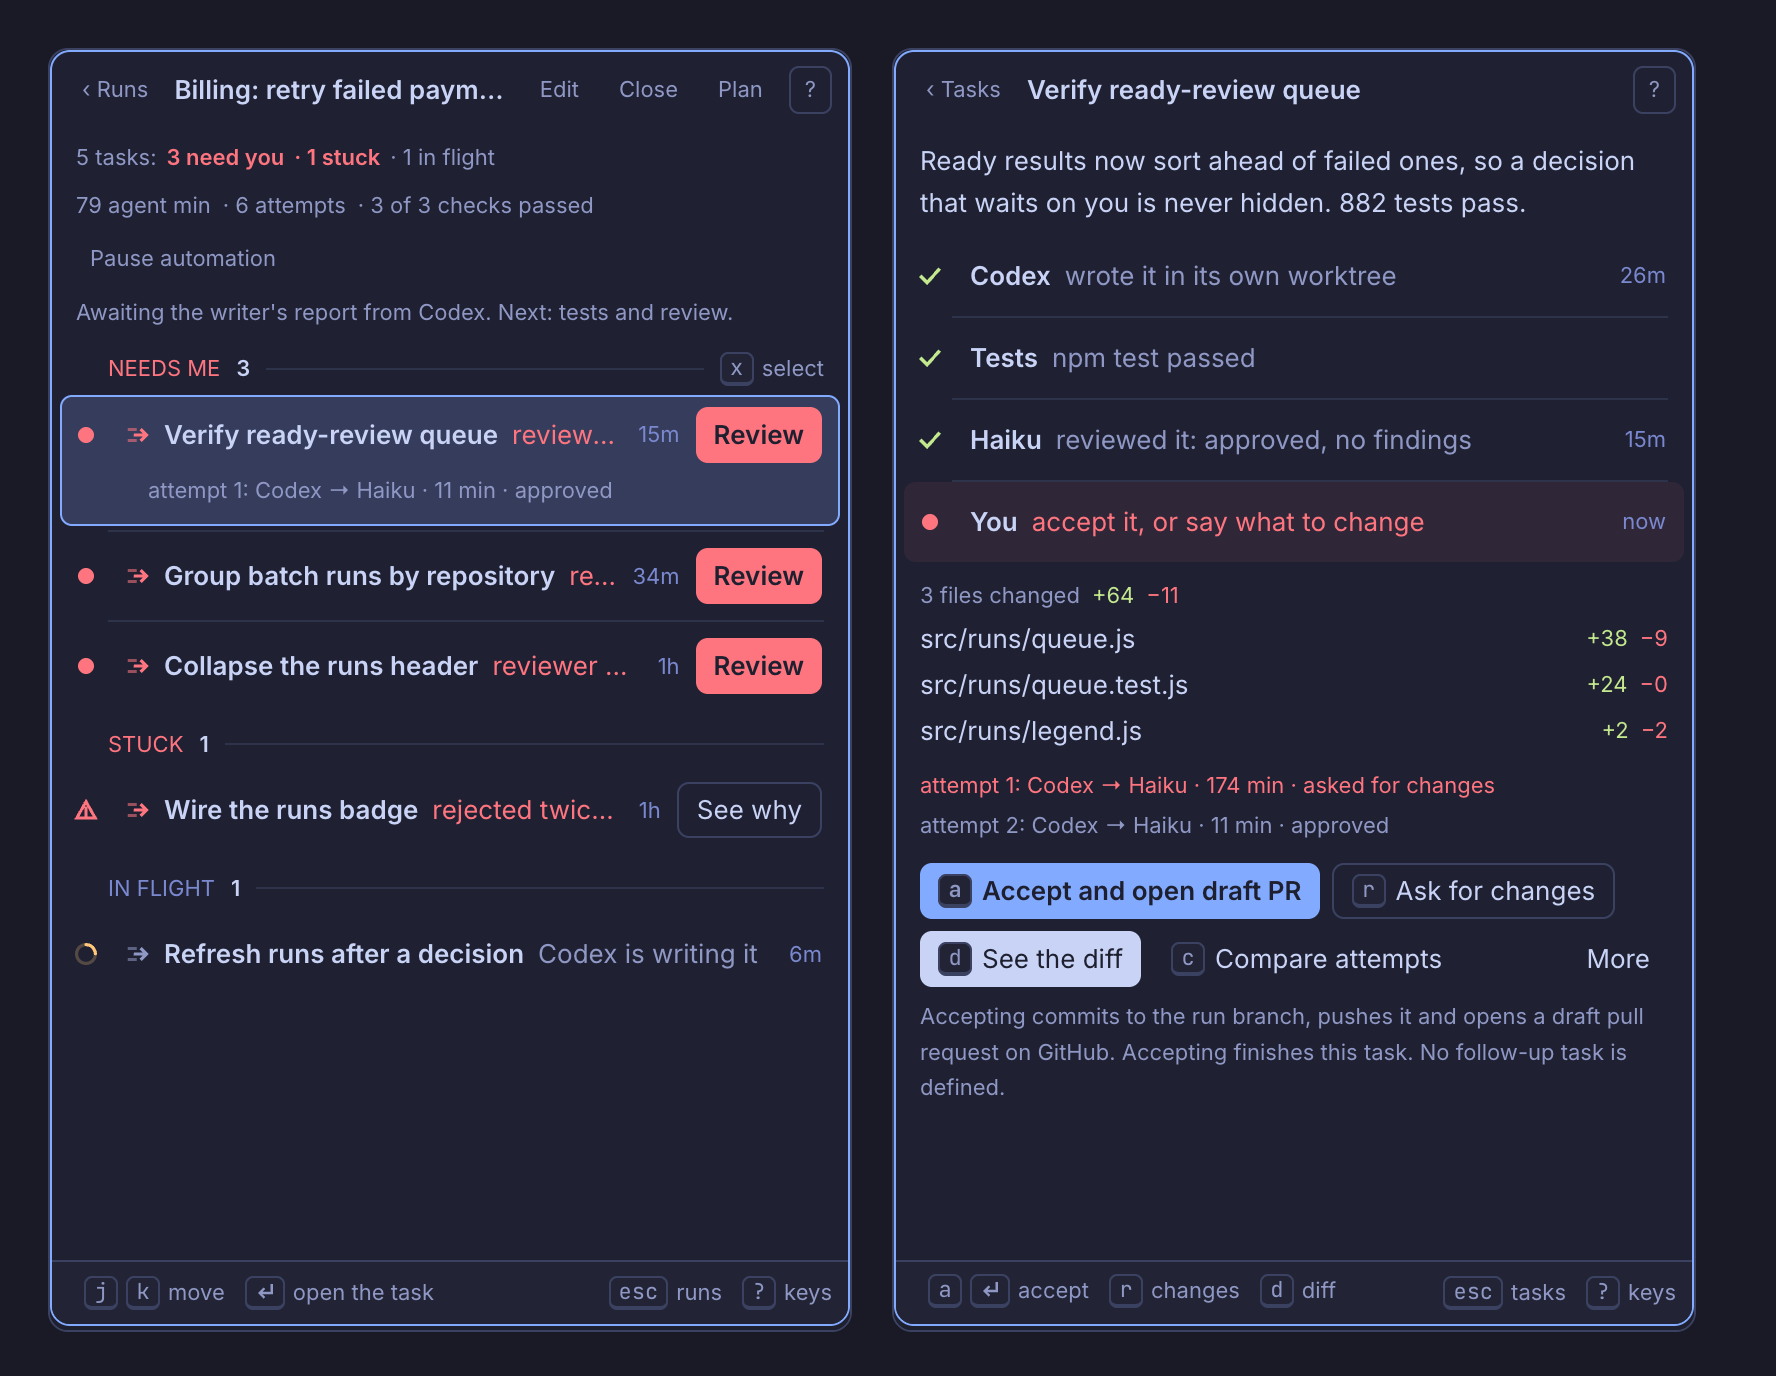
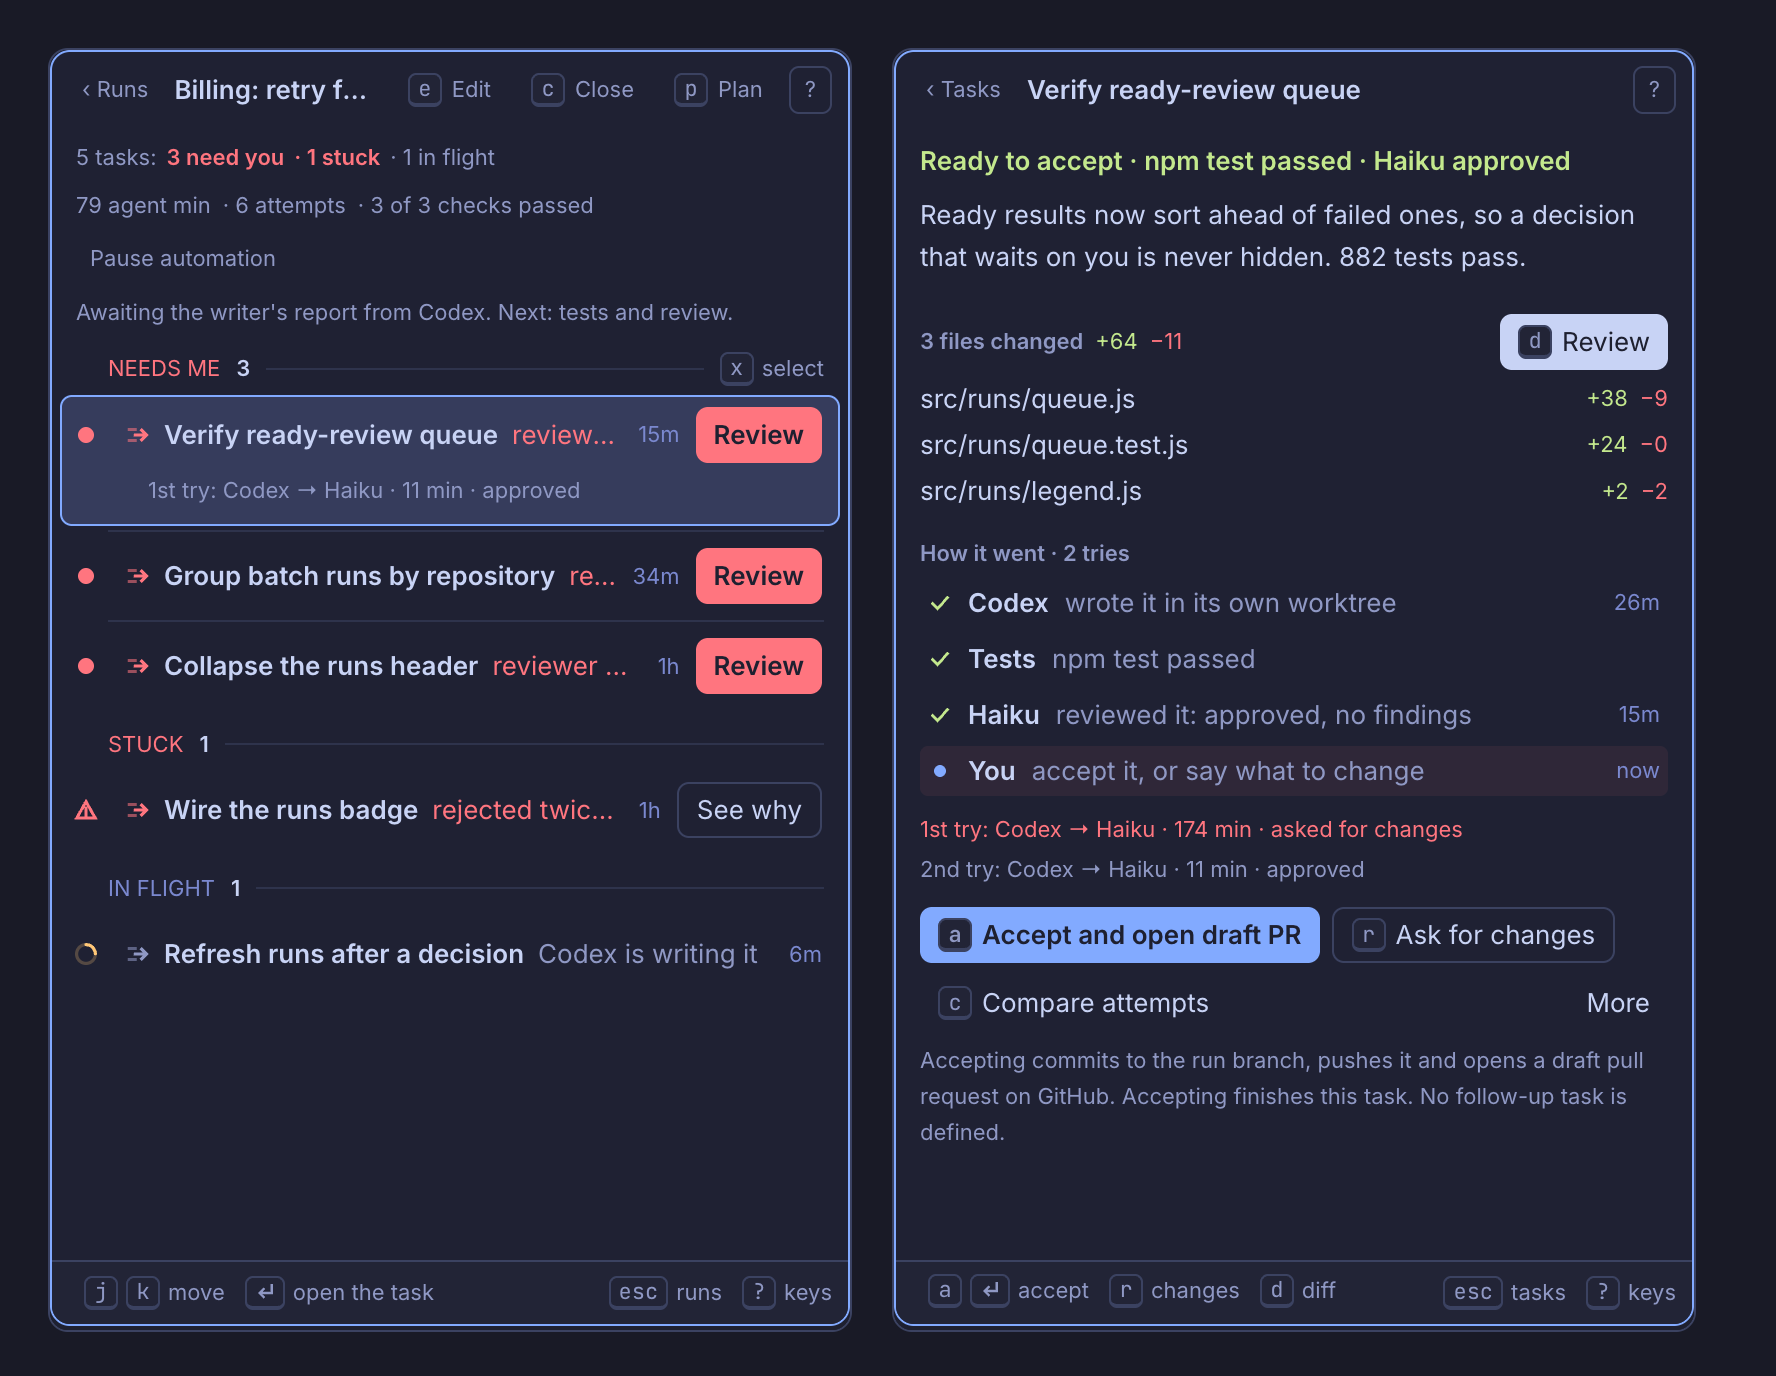
chore: release 0.10.0 (#119)
A new picture shows a deep review beside the fix run it started, and the
runs picture is redrawn with the task's new layout. The README says how
the deep review dialog picks reviewers, how a fix reads against its
review, Ask to fix, Try again, and that accepting a PR fix pushes it.

diff --git a/README.md b/README.md
@@ -38,13 +38,13 @@ The panel has two views. **Reviews** is the Inbox described below. **Runs** is f
 1. **New run** (`n`) takes a prompt. Its first line names the run.
 2. Check the repository, the tests, who writes it and who reviews it; they come filled in. The repository is the one you are in (a run's worktree gives the repository it came from), the tests are what it declares (the `test` script of `package.json` with npm, pnpm, yarn or bun, `go test ./...`, `cargo test`, `pytest` or `make test`), and the agents are the ones you used last unless one is out of quota. The line above the setup reads it all, for example "app · own worktree · Team → Codex · npm test".
 3. **Start**. By default the run gets its own worktree, `run/<slug>` under `~/.herdr/worktrees/<repo>/`, and its writer opens there in a tab. The reviewer opens in a second tab when the writing is done and its tests have run. If an agent asks whether to trust the new folder, Runs shows it under Needs me with **Trust and continue**. **Existing sessions** uses agents you already have open in the repository instead.
-4. The result appears under **Needs me**, in Reviews with its agents, attempt, tests, verdict and age, and in Runs on its run. Open it to read the writer's summary, who did what and the files it changed, then see the diff (**D**, or a click on a file, opens it beside the panel), accept (**A**, then Enter: **Accept and open draft PR**) or ask for changes (**R**). A run the agents could not finish shows as **Stuck**; **See why** opens it on the reviewer's finding.
+4. The result appears under **Needs me**, in Reviews with its agents, attempt, tests, verdict and age, and in Runs on its run. Open it to read where it stands in one line, the writer's summary, the files it changed and who did what. **Review** (**D**, or a click on a file) opens the change beside the panel. Then accept (**A**, then Enter: **Accept and open draft PR**) or ask for changes (**R**). **Ask to fix** on a reviewer's finding marks it, and **Send feedback** asks the writer for every marked finding, whole, with your note. Accepting the last open task takes you back to Runs, on that run. A run the agents could not finish shows as **Stuck**; **See why** opens it on the reviewer's finding.
 
-**Fix a pull request with a run.** On a PR of yours with failing CI, changes requested or unresolved comments, **Fix with a run** writes the prompt from GitHub (the failing checks and each unresolved comment with its file and line, since the agents work offline) and opens the run window on a copy of the PR's branch. You check it and press Start. Once you accept, **Push to <branch>** adds the commit to the pull request; it is never forced, so a branch that moved on GitHub refuses it.
+**Fix a pull request with a run.** On a PR of yours with failing CI, changes requested or unresolved comments, **Fix with a run** writes the prompt from GitHub (the failing checks and each unresolved comment with its file and line, since the agents work offline) and opens the run window on a copy of the PR's branch. You check it and press Start. **Accept and push to <branch>** commits the result and adds it to the pull request in one click; the push is never forced, so a branch that moved on GitHub refuses it and **Push to <branch>** stays to try again.
 
 **A second opinion.** On an agent's row in Reviews with uncommitted work, **Second opinion** opens a reviewer of another provider beside it (Codex for Claude's work, Claude for Codex's), runs the repository's tests on the work as it is and sends the reviewer the diff. The agent whose work it is gets nothing; the verdict waits in Runs under Needs me, and only if you ask for changes do they go to that agent.
 
-**Runs at a glance.** Each run is one row that answers three questions: what it is, what it is doing or wants **Now** ("3 results wait for your review", "stuck: the reviewer rejected it twice", "an agent is writing …", "needs a plan before agents start") and what it **Shipped** ("2 pull requests merged: #38, #42", "nothing yet"). Runs are grouped Needs me, In flight, Ready and Not started, with the counts as a legend and one action at the edge: **Review 3**, **See why**, **Open** or **Plan**. Closed runs fold under "N older finished runs", and **Saved setups** opens in place with one row per setup (name, repository, agents, attempts): **Start** fills a new task in the run window with it, and **×** removes it.
+**Runs at a glance.** Each run is one row that answers three questions: what it is, what it is doing or wants **Now** ("3 results wait for your review", "stuck: the reviewer rejected it twice", "an agent is writing …", "needs a plan before agents start") and what it **Shipped** ("2 pull requests merged: #38, #42", "nothing yet"). Runs are grouped Needs me, In flight, Ready and Not started, with the counts as a legend and one action at the edge: **Review 3**, **See why**, **Open** or **Plan**. A click selects a run and shows **Edit**, **Close** and **Plan** (`e`, `c`, `p`); a second click or Enter opens it. A fix run sits under the deep review it came from, and a finished run says when it finished, newest first. Closed runs fold under "N older finished runs": **Archive** (`a`) or **Delete** one, or **Archive all**; runs closed over a week ago archive themselves, and **Saved setups** opens in place with one row per setup (name, repository, agents, attempts): **Start** fills a new task in the run window with it, and **×** removes it.
 
 **A run opens in the panel.** Enter or a click shows its tasks under Needs me, Stuck and In flight, with the ones not started or done folded. A stuck task, selected, says **Why** in the reviewer's words. One whose writer is still its own offers **Try again**: one more try in the same worktree, with the findings you mark (all of them if you mark none) and a note. **Prepare a follow-up** starts a new task from the repository instead. Enter on a task shows the summary, each step with its check (who wrote it, the tests, who reviewed it, then you) and the decision, with one line on what accepting does. Esc goes back a level.
 
@@ -164,11 +164,18 @@ shows only what the agent changed after your last look, and **Viewed** marks fil
 
 ### Deep review a pull request
 
-**Deep review** on a PR of yours has the reviewers you set in Settings (an account, a model and an effort each; by
-default two Claude Code sessions, Opus and Sonnet) review the whole PR against its base, in a worktree of its exact head, with the
-repository's tests and the PR's checks on GitHub. Their findings meet in Runs as one page, merged where they agree: **Post as draft
-review** leaves them on GitHub as a pending review for you to edit and send, and **Fix with a run** fixes the blockers
-and majors. The ▾ beside it runs the review skills you use most, such as `/code-review`, on the PR.
+**Deep review** on a PR of yours opens a dialog with one line per reviewer, up to six (two by default): its account, its
+model (the ones it used here lately first) and its effort. "Remember for next time" keeps the choice, and Settings › Deep
+review is the base. Each reviewer reads the whole PR against its base, in a worktree of its exact head, with the
+repository's tests and the PR's checks on GitHub, and closes its tab once it reports. Their findings meet in Runs as one
+page, merged where they agree ("Both"): **Post as draft review** leaves them on GitHub as a pending review for you to edit
+and send, and **Fix with a run** starts a run at once that gives every finding a verdict (Fixed, False positive, Won't fix
+or Needs your call). The fix sits under its review and reads against it: "1 of 2 majors handled · 1 left", what it handled
+and the minor notes, with **Ask to fix** on what is left. Accepting it pushes to the PR's branch. A fix that runs out of
+tries offers **Try again**, one more try in the same worktree with the findings you mark. The ▾ beside **Deep review**
+runs the review skills you use most, such as `/code-review`, on the PR. Codex is offered only where it is installed and on.
+
+![A deep review of a PR with two reviewers, and its fix with one major left and marked to fix](screenshots/deep-review.png)
 
 ### Resolve conflicts, and see what each turn cost
 

diff --git a/CHANGELOG.md b/CHANGELOG.md
@@ -1,6 +1,6 @@
 # Changelog
 
-## Unreleased
+## 0.10.0 · 2026-11-17
 
 - **Accepting the last task of a run goes back to Runs.** Once nothing else in the run waits, the panel returns to the list on that run, with what happened ("Pushed to feat/x…") still shown. A fix of a pull request goes back once its push lands, and a run that opens a draft PR goes back once the PR is open.
 - **A stuck run can try again in place.** A run that used its tries and still has its writer offers **Try again**: its findings show as cards to mark, and one more try goes to the same writer, in the same worktree, with the same reviewer and pull request, carrying the marked findings (all of them if none is marked) and your note. **Prepare a follow-up** of a worktree run now starts from the repository instead of a worktree inside the run's worktree, which started without the run's work, and a fix of a pull request still pushes to it.
